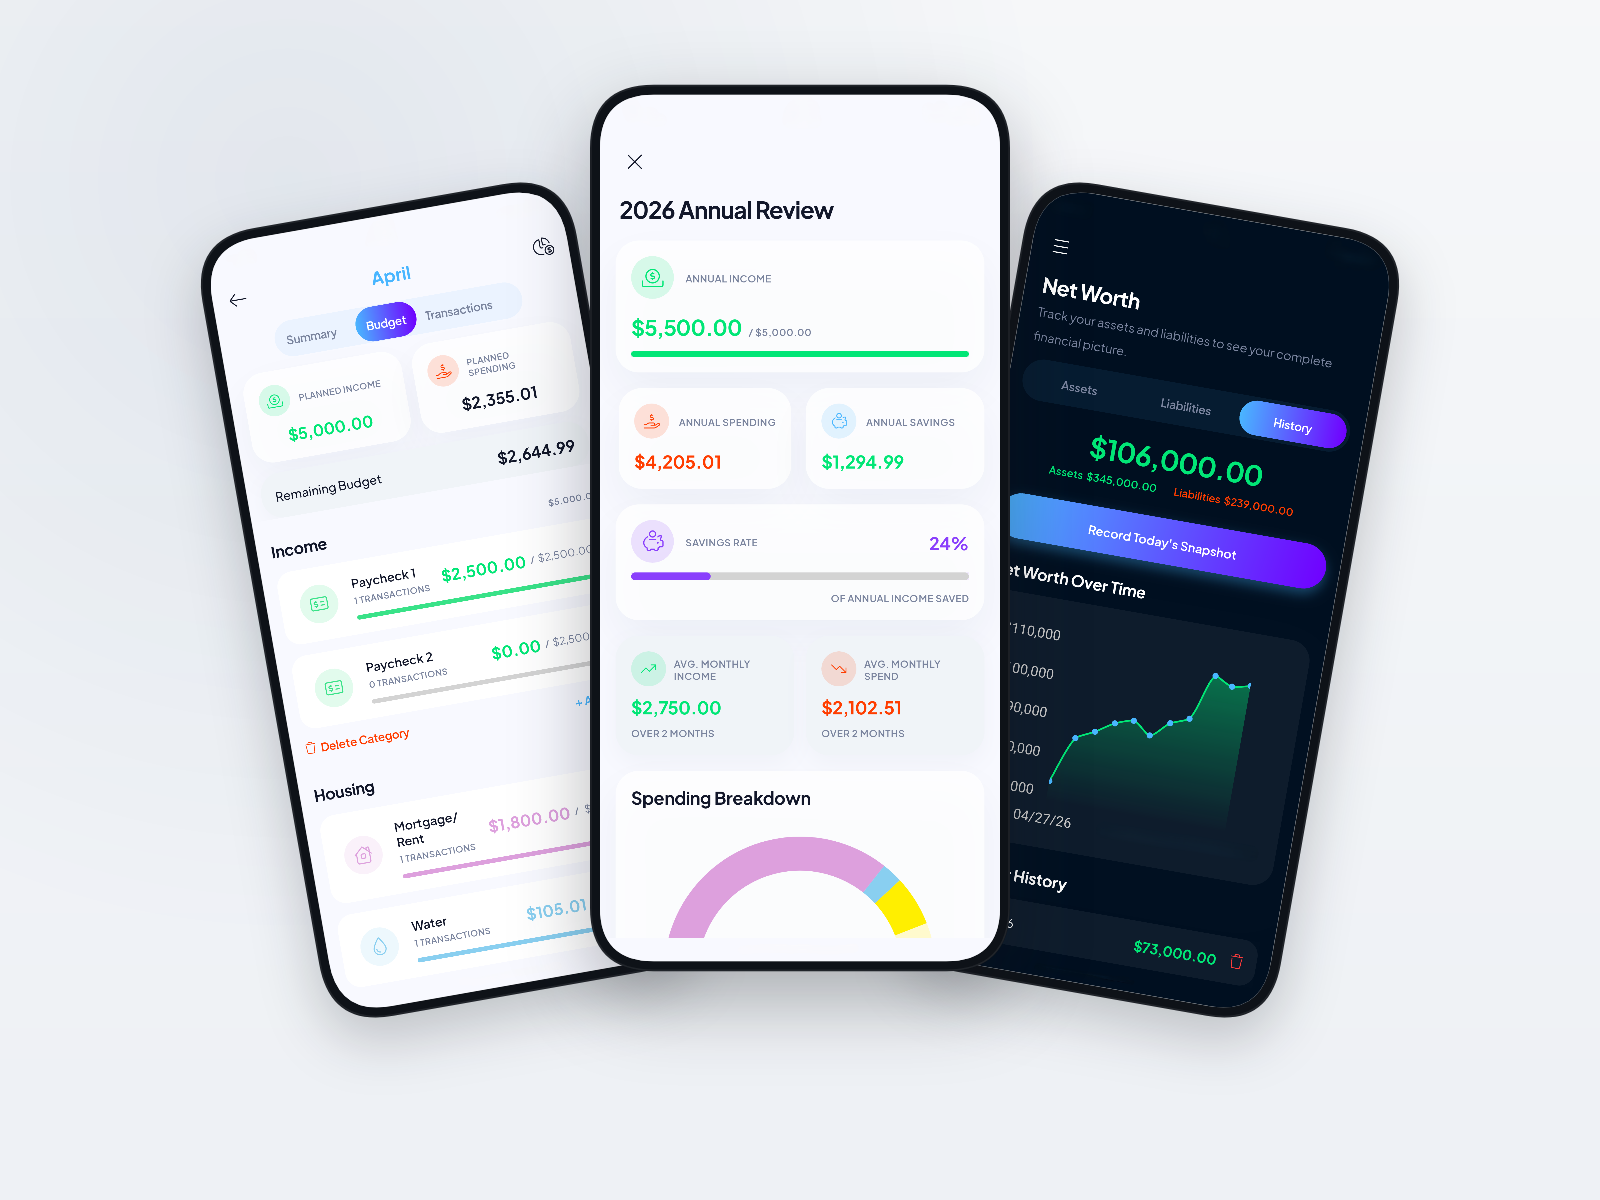
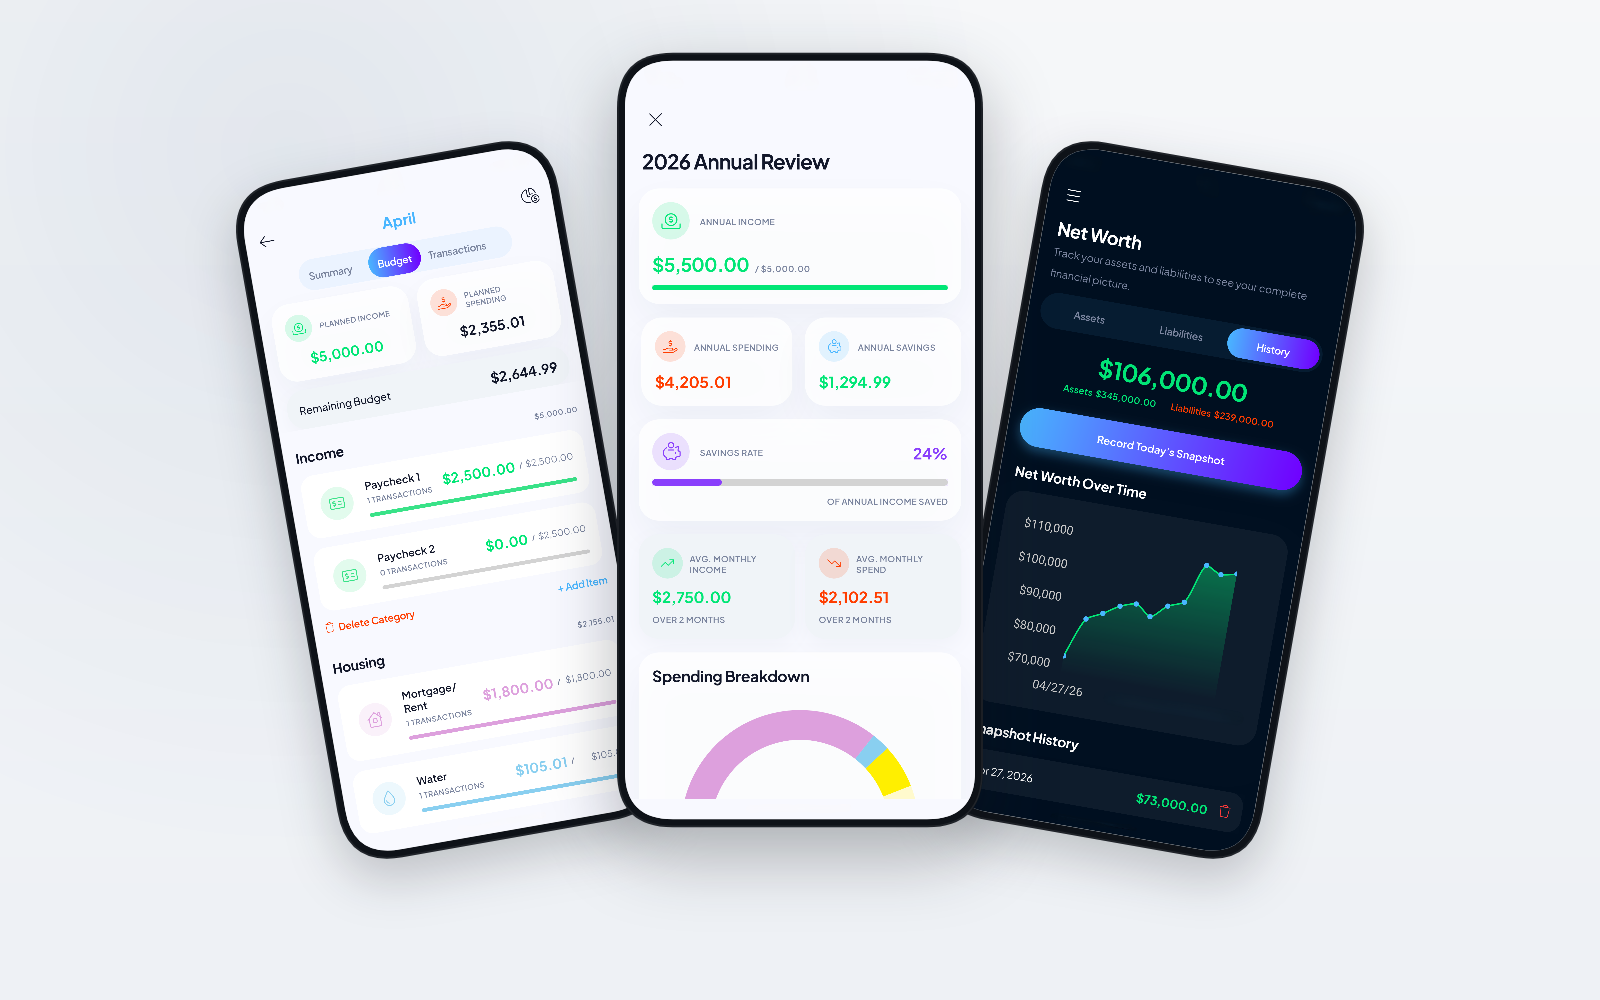
Fixes

Changed region(s): [[0.125, 0.031, 0.875, 0.868], [0.6562, 0.682, 0.6875, 0.713]]

diff --git a/index.html b/index.html
@@ -369,7 +369,7 @@ p { margin: 0; }
 .work-preview-img {
   width: 100%;
   height: 100%;
-  object-fit: contain;
+  object-fit: cover;
   display: block;
 }
 
@@ -716,10 +716,10 @@ p { margin: 0; }
         <span class="dot pulse"></span>
         In progress · 2026
       </div>
-      <h3 class="work-card-title">Untitled, coming soon</h3>
+      <h3 class="work-card-title">Centsibly</h3>
       <p class="work-card-desc">
-        An active project I'll feature here once it's ready to share.
-        Cross-platform, built with the boring-good tooling I've trusted for years.
+         Budget sensibly. Live freely.
+  		 Take control of every dollar. Plan your budget, track your net worth, and map out retirement.
       </p>
     </div>
     <div class="work-placeholder">
